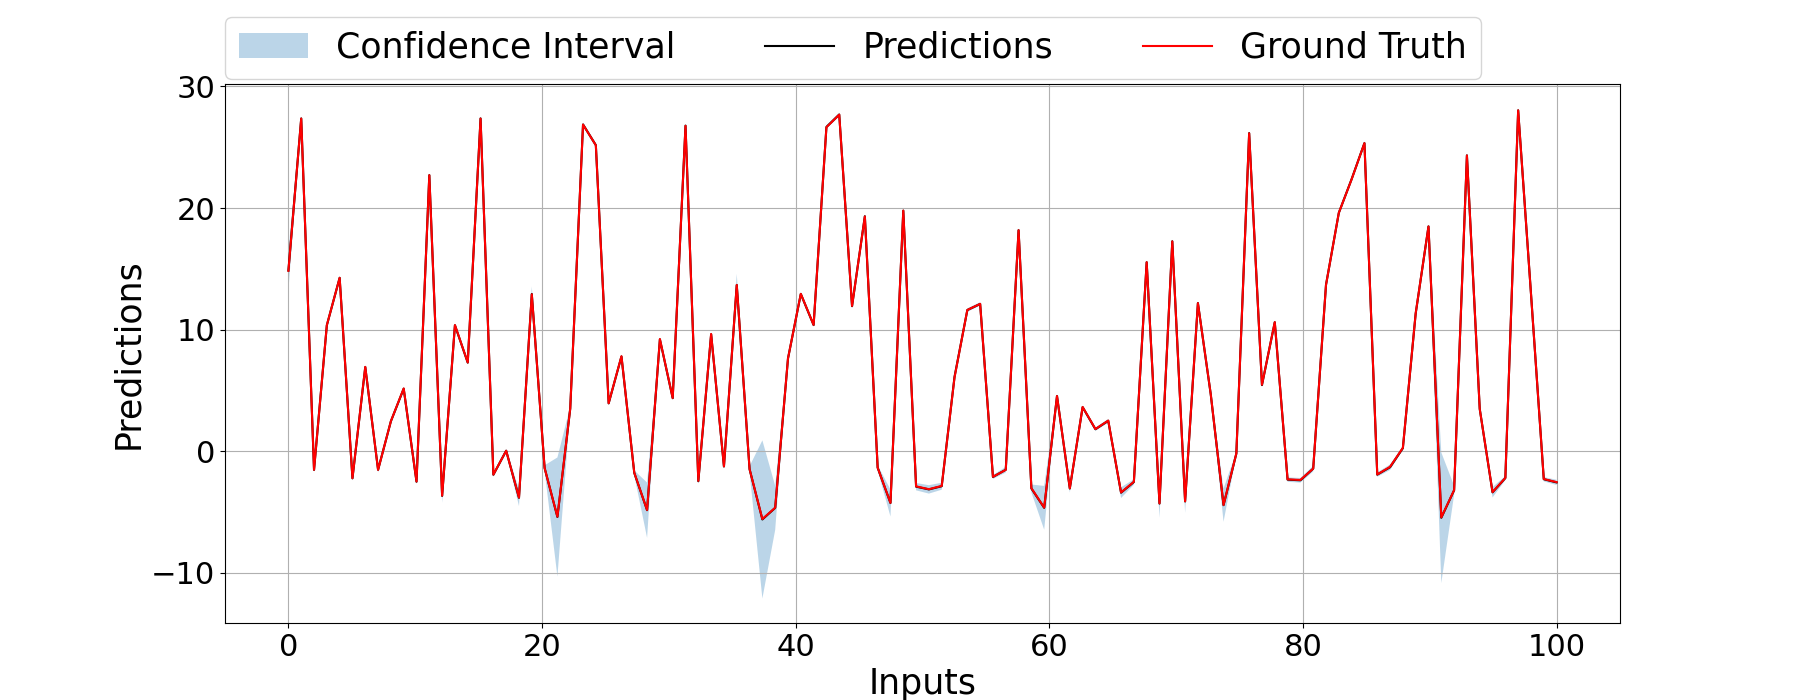
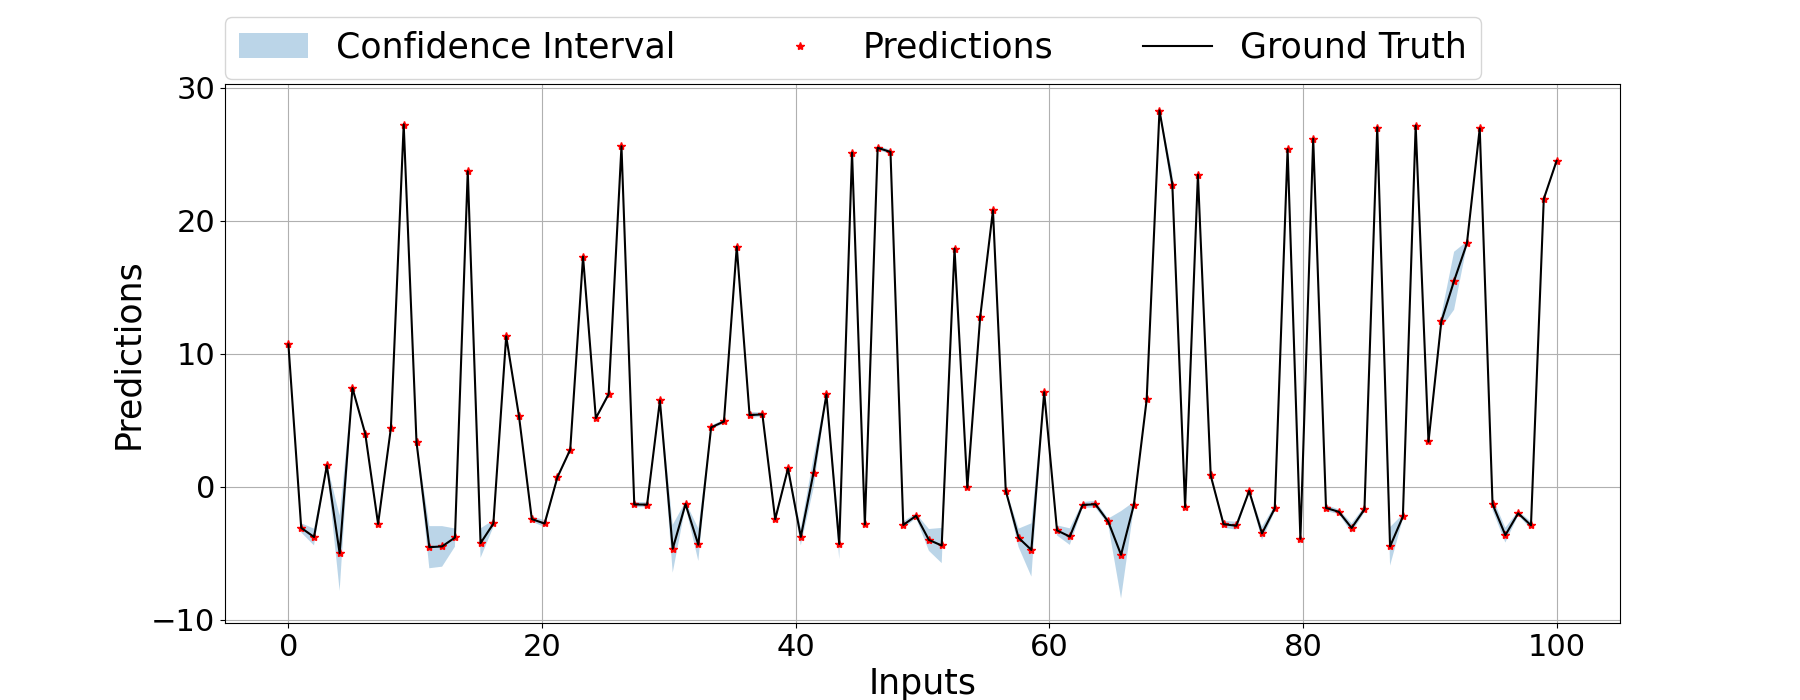
new results

diff --git a/Model/utils.py b/Model/utils.py
@@ -148,8 +148,8 @@ def plot_one(mu: np.ndarray, upper_mu: np.ndarray, lower_mu: np.ndarray, ground_
     plt.rc('figure', titlesize=12)  # fontsize of the figure title
 
     ax.fill_between(no_of_inputs, lower_mu.reshape(-1,), upper_mu.reshape(-1,), alpha=0.3)
+    r1, = ax.plot(no_of_inputs, ground_truth.reshape(-1,), "r*")
     k1, = ax.plot(no_of_inputs, mu.reshape(-1,), "k-")
-    r1, = ax.plot(no_of_inputs, ground_truth.reshape(-1,), "r-")
 
     ax.set_ylabel('Predictions')
     ax.set_xlabel('Inputs')
